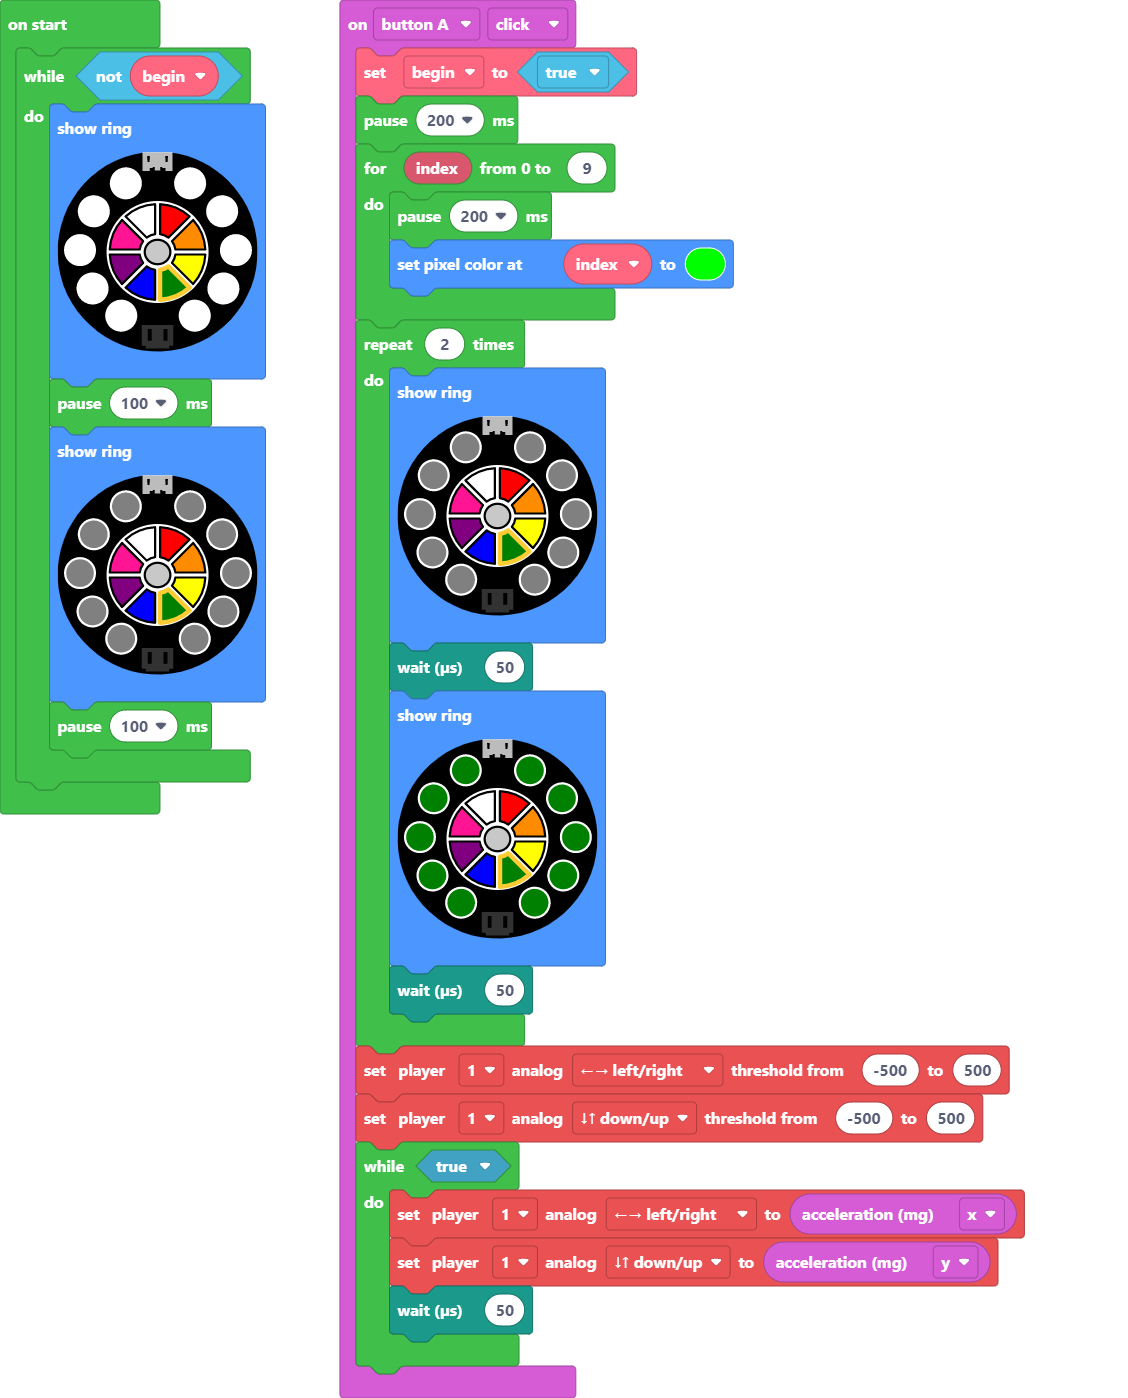
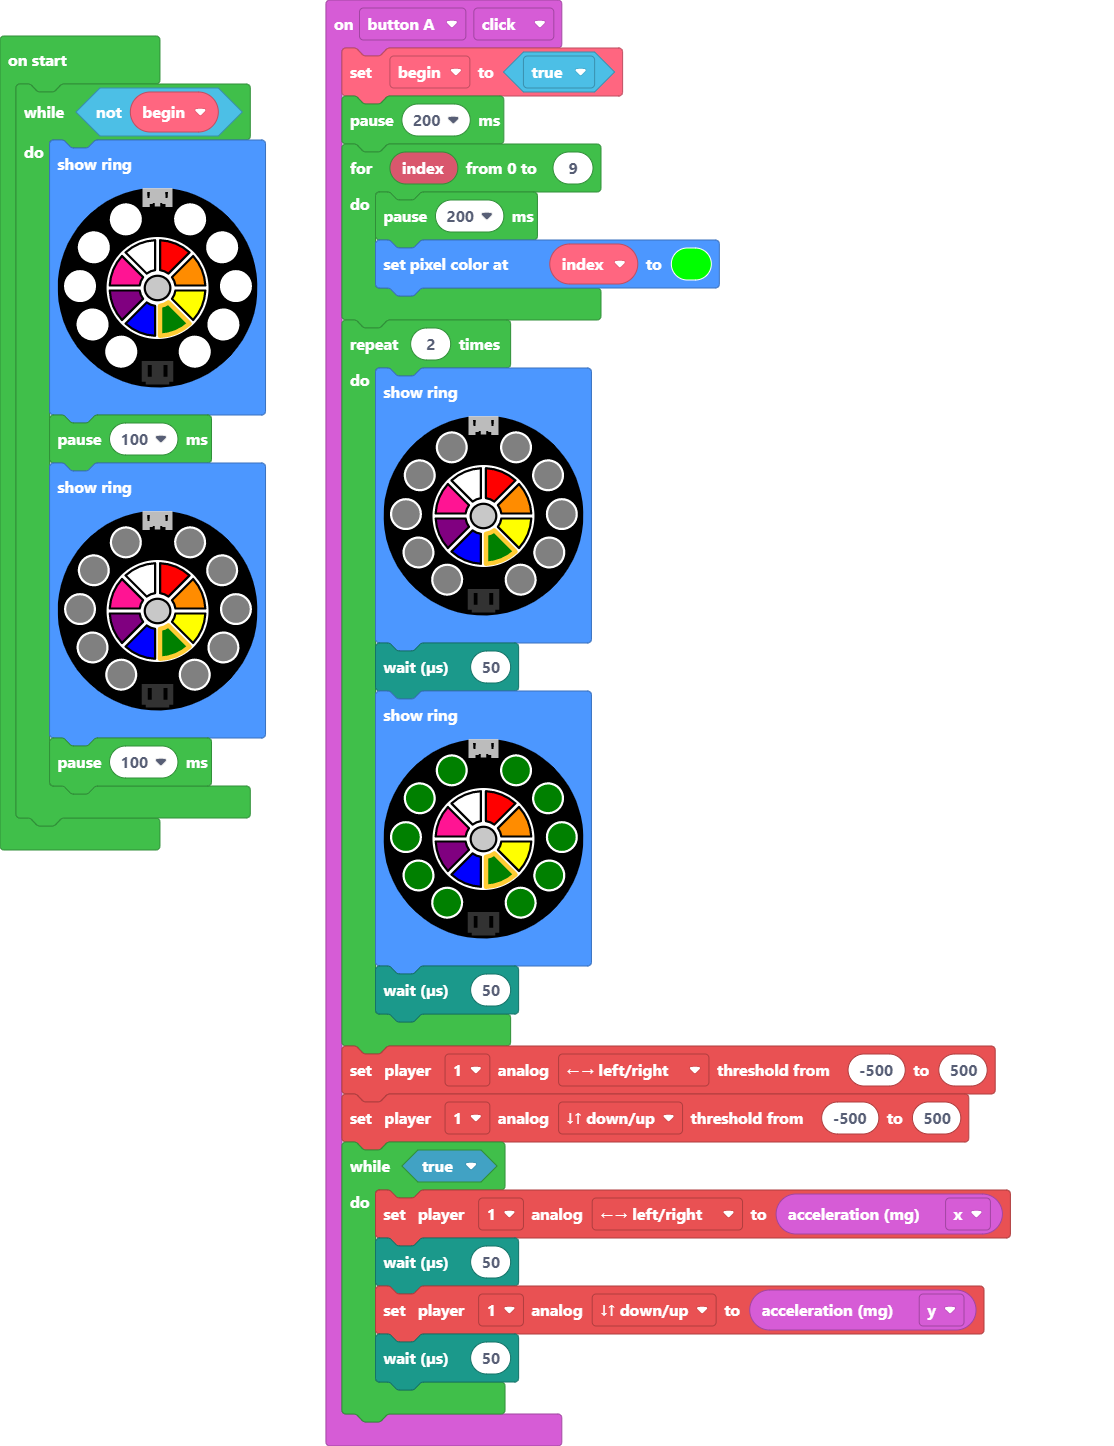
Update main.blocks, main.ts

Changed region(s): [[0.2747, 0.0, 0.9156, 1.0], [0.0, 0.0, 0.2442, 0.6152], [0.4883, 0.9843, 0.5189, 1.0]]

diff --git a/main.ts b/main.ts
@@ -19,6 +19,7 @@ input.buttonA.onEvent(ButtonEvent.Click, function () {
     makerController.player1.setAnalogThreshold(ArcadeAnalogButton.DownUp, -500, 500)
     while (true) {
         makerController.player1.setAnalog(ArcadeAnalogButton.LeftRight, input.acceleration(Dimension.X))
+        control.waitMicros(50)
         makerController.player1.setAnalog(ArcadeAnalogButton.DownUp, input.acceleration(Dimension.Y))
         control.waitMicros(50)
     }
